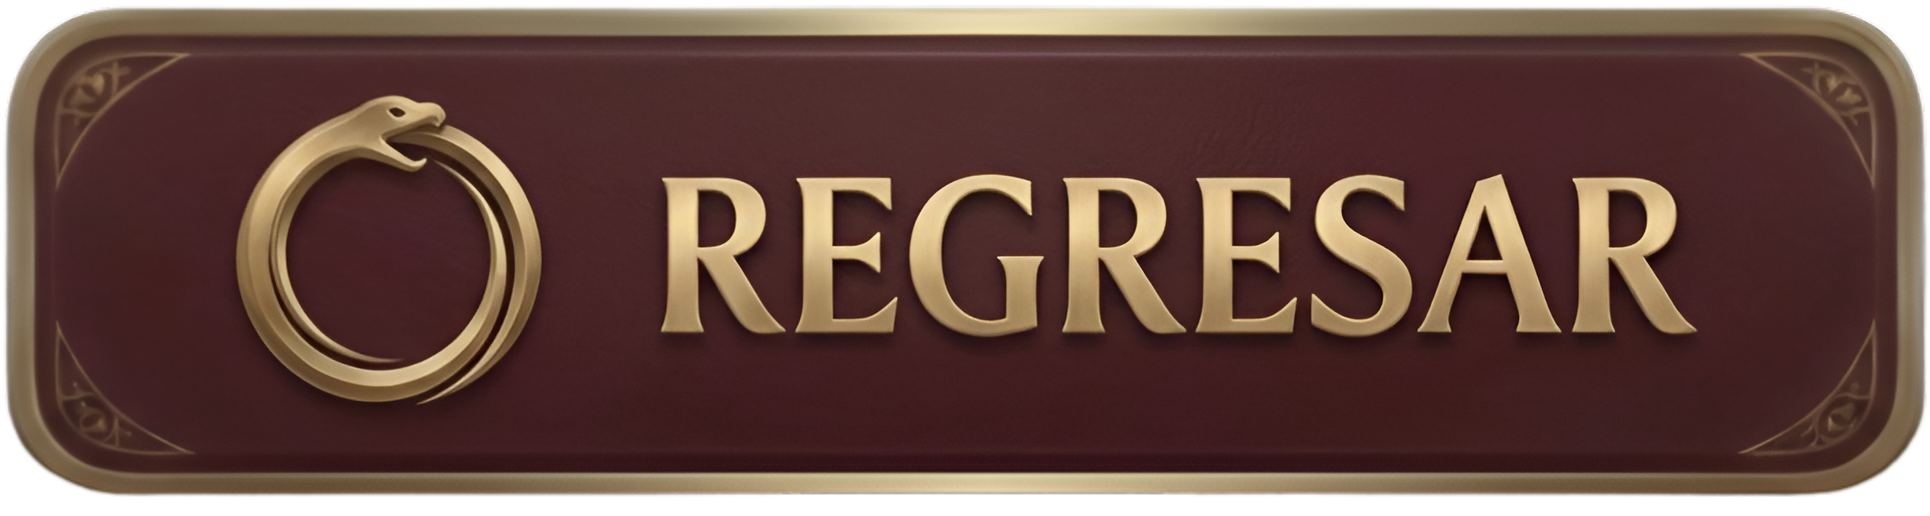
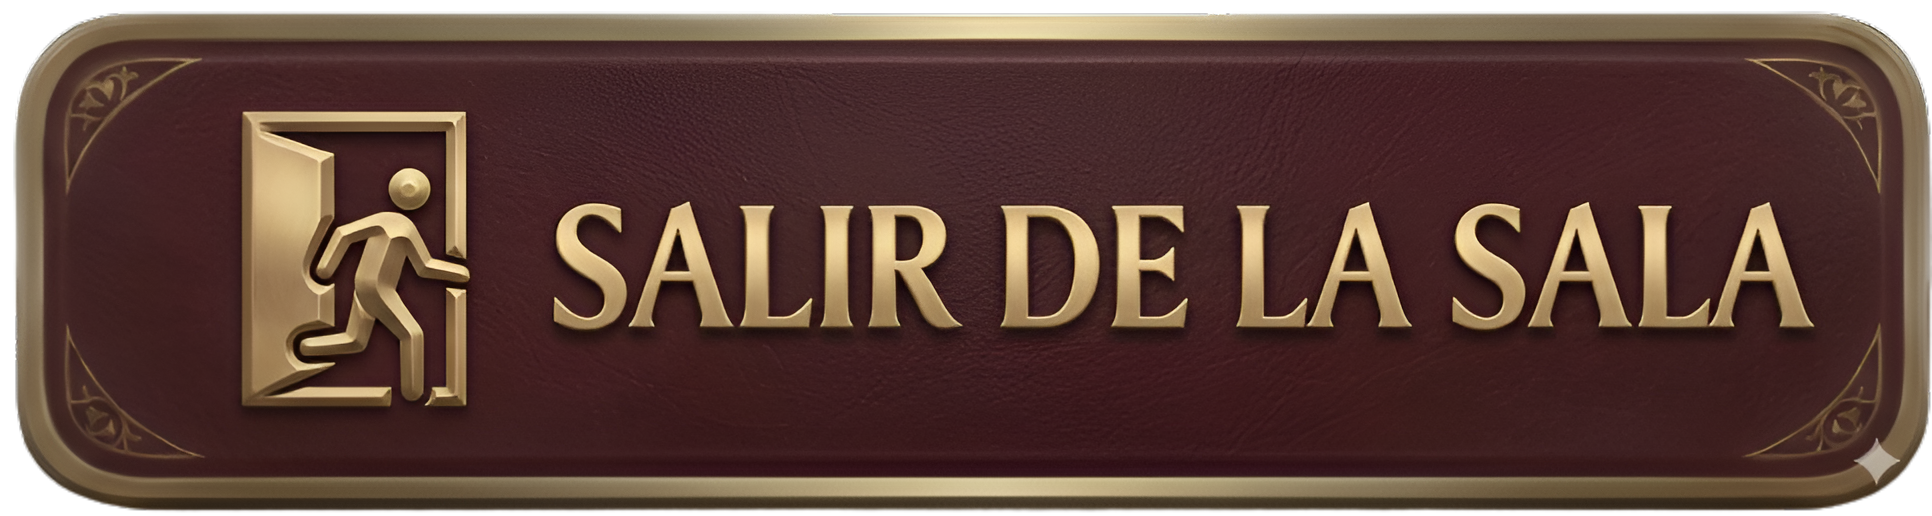
Actualizacion botones sala y salir de la sala Jhadiel

Changed region(s): [[0.0, 0.0, 1.0, 0.9922]]

diff --git a/redes_interfaz/controladores.py b/redes_interfaz/controladores.py
@@ -533,6 +533,19 @@ def modificacion_real_datos(un_juego, evento, constantes):
     
     if evento.type == constantes.EVENTO_SALAS_ENCONTRADAS:
         un_juego.lista_elementos["salas_disponibles"] = evento.salas
+
+        # Si estamos en el menú de selección de sala, reconstruirlo con la lista nueva
+        try:
+            if hasattr(un_juego, "menu_seleccion_sala") and un_juego.menu_seleccion_sala.visible:
+                if un_juego.menu_seleccion_sala in un_juego.elementos_creados:
+                    un_juego.elementos_creados.remove(un_juego.menu_seleccion_sala)
+
+                un_juego.menu_seleccion_sala = un_juego.Menu_seleccion_sala()
+                Mostrar_seccion(un_juego, un_juego.menu_seleccion_sala)
+
+                print("Menú de salas actualizado con salas nuevas")
+        except Exception as e:
+            print(f"No se pudo refrescar menú de salas: {e}")
     
     # Manejar evento de inicio de partida - versión no bloqueante
     if evento.type == constantes.EVENTO_INICIAR_PARTIDA:
@@ -599,17 +612,40 @@ def regresar_desde_mesa_espera(un_juego):
 
         try:
             if cliente_rummy is not None:
+                cliente_rummy.activo = False
+
+                if hasattr(cliente_rummy, "buscador"):
+                    cliente_rummy.buscador = False
+
                 cliente_rummy.desconectar()
                 cliente_rummy = None
+
         except Exception as e:
             print(f"Error desconectando cliente host: {e}")
 
         try:
             if server_rummy is not None:
+                server_rummy.activo = False
+
+                if hasattr(server_rummy, "buscador"):
+                    server_rummy.buscador = False
+
                 server_rummy.desconectar()
                 server_rummy = None
+
         except Exception as e:
             print(f"Error cerrando servidor: {e}")
+
+        try:
+            un_juego.lista_elementos["salas_disponibles"] = []
+            un_juego.lista_elementos["lista_jugadores"] = []
+            un_juego.lista_elementos["nombre_sala"] = ""
+            un_juego.lista_elementos["nombre_creador"] = ""
+            un_juego.lista_elementos["es_host"] = False
+            un_juego.lista_elementos["origen_espera"] = ""
+
+        except Exception as e:
+            print(f"Error limpiando datos de sala local: {e}")
 
         try:
             conexion_salas.buscador = True
@@ -623,8 +659,14 @@ def regresar_desde_mesa_espera(un_juego):
 
         try:
             if cliente_rummy is not None:
+                cliente_rummy.activo = False
+
+                if hasattr(cliente_rummy, "buscador"):
+                    cliente_rummy.buscador = False
+
                 cliente_rummy.desconectar()
                 cliente_rummy = None
+
         except Exception as e:
             print(f"Error desconectando jugador: {e}")
 
@@ -641,7 +683,9 @@ def regresar_desde_mesa_espera(un_juego):
     try:
         if hasattr(un_juego, "detener_musica"):
             un_juego.detener_musica()
+
         if hasattr(un_juego, "reproducir_musica_menu"):
             un_juego.reproducir_musica_menu()
+
     except Exception as e:
         print(f"Error cambiando música al regresar: {e}")

diff --git a/redes_juego/server_main.py b/redes_juego/server_main.py
@@ -1,31 +1,56 @@
-
 import time
 
-def run_server(server_rummy,cliente_rummy,max_jugadores, nombre_jugador="Host", nombre_sala="Sala1",un_juego=None):
+def run_server(server_rummy, cliente_rummy, max_jugadores, nombre_jugador="Host", nombre_sala="Sala1", un_juego=None):
     server = server_rummy
     server.max_jugadores = max_jugadores
-    server.nombre_host = nombre_jugador  # Guardar nombre en el servidor
-    server.nombre_partida = nombre_sala  # Guardar nombre de la sala en el servidor
+    server.nombre_host = nombre_jugador
+    server.nombre_partida = nombre_sala
     server.un_juego = un_juego
+
+    # Bandera para controlar el ciclo del servidor
+    server.activo = True
+
     server.iniciar_servidor()
     time.sleep(1)
+
     cliente_host = cliente_rummy
     cliente_host.un_juego = un_juego
-    if cliente_host.conectar_a_servidor('127.0.0.1', nombre_jugador=nombre_jugador):
+    cliente_host.activo = True
+
+    if cliente_host.conectar_a_servidor("127.0.0.1", nombre_jugador=nombre_jugador):
         print("Host conectado al servidor local")
+
         try:
-            while True:
+            while getattr(server, "activo", True) and getattr(cliente_host, "activo", True):
                 time.sleep(1)
+
         except KeyboardInterrupt:
             print("Cerrando servidor y cliente")
+
         finally:
-            cliente_host.desconectar()
-            server.desconectar()
+            try:
+                cliente_host.activo = False
+                cliente_host.desconectar()
+            except Exception as e:
+                print(f"Error cerrando cliente host: {e}")
+
+            try:
+                server.activo = False
+                server.desconectar()
+            except Exception as e:
+                print(f"Error cerrando servidor: {e}")
+
             print("Servidor y cliente cerrados correctamente")
+
     else:
         print("Error: No se pudo conectar al servidor local")
-        server.desconectar()
+        try:
+            server.activo = False
+            server.desconectar()
+        except Exception as e:
+            print(f"Error cerrando servidor tras fallo: {e}")
+
 
 if __name__ == "__main__":
-    run_server(7)  # Valor por defecto para pruebas
+    print("Este archivo debe ejecutarse desde controladores.py con sus argumentos reales.")
 

diff --git a/recursos_graficos/menus_core/_menu_seleccion_sala_mixin.py b/recursos_graficos/menus_core/_menu_seleccion_sala_mixin.py
@@ -159,14 +159,14 @@ class MenuSeleccionSalaMixin:
                 "archivo": "boton_actualizar.png", 
                 "accion": lambda: self.actualizar_lista_salas(),
                 "x_inc": 0.75,
-                "y_inc": 1
+                "y_inc": 1.05
             }
         ]
 
         for datos in datos_botones:
             # 2. Crear el botón base
             x_relativa = x_base * datos["x_inc"]
-            y_relativa = y_relativa * datos["y_inc"]
+            y_boton = y_relativa * datos["y_inc"]
             boton = menu.crear_elemento(
                 x=x_relativa,
                 y=y_relativa,
@@ -205,7 +205,7 @@ class MenuSeleccionSalaMixin:
 
                 # Posicionamiento absoluto
                 x_absoluto = menu.x + x_relativa
-                y_absoluto = menu.y + y_relativa
+                y_absoluto = menu.y + y_boton
 
                 boton.x = int(x_absoluto)
                 boton.y = int(y_absoluto)
@@ -236,12 +236,27 @@ class MenuSeleccionSalaMixin:
                 print(f"Error cargando imagen {datos['archivo']}: {e}")
 
     def actualizar_lista_salas(self):
-        """Refresca la lista de salas disponibles recreando el menú"""
+        """Refresca la lista de salas disponibles pidiendo nueva búsqueda"""
         print("Actualizando lista de salas...")
-        # Remover el menú actual
+
+        # 1. Limpiar salas viejas
+        self.lista_elementos["salas_disponibles"] = []
+
+        # 2. Reactivar buscador de salas
+        try:
+            controladores.conexion_salas.buscador = True
+        except Exception as e:
+            print(f"No se pudo reactivar buscador de salas: {e}")
+
+        # 3. Volver a lanzar búsqueda si existe Buscar_salas
+        try:
+            controladores.Buscar_salas(self)
+        except Exception as e:
+            print(f"No se pudo reiniciar búsqueda de salas: {e}")
+
+        # 4. Mostrar temporalmente el menú vacío/actualizando
         if hasattr(self, "menu_seleccion_sala") and self.menu_seleccion_sala in self.elementos_creados:
             self.elementos_creados.remove(self.menu_seleccion_sala)
-    
-        # Crear nuevo menú con salas actualizadas
+
         self.menu_seleccion_sala = self.Menu_seleccion_sala()
         controladores.Mostrar_seccion(self, self.menu_seleccion_sala)

diff --git a/recursos_graficos/menus_core/_menu_mesa_espera_mixin.py b/recursos_graficos/menus_core/_menu_mesa_espera_mixin.py
@@ -146,11 +146,11 @@ class MenuMesaEsperaMixin:
             controladores.Mostrar_seccion(self, self.menu_mesa_espera)
 
     def crear_boton_regresar_mesa_espera(self, menu_mesa_espera):
-        ancho = 215
-        alto = 70
+        ancho = 230
+        alto = 80
 
         x = 70
-        y = 610
+        y = 600
 
         boton_regresar = menu_mesa_espera.crear_elemento(
             x=x,
